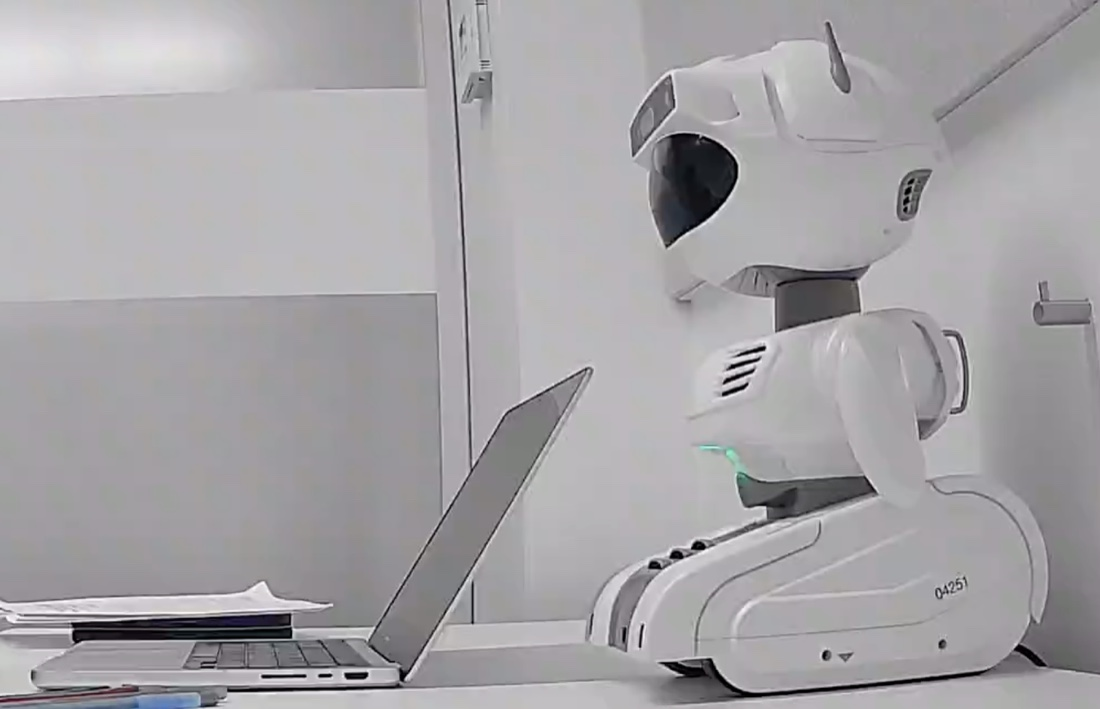
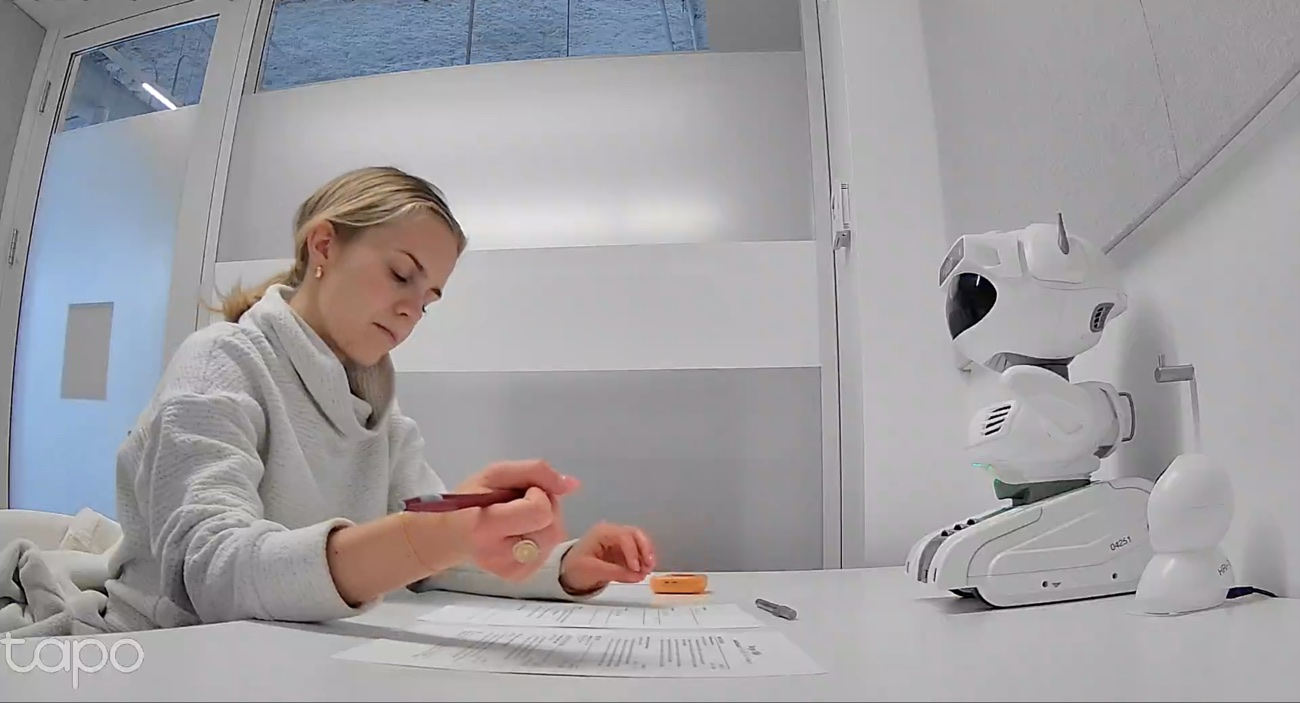
update on research section

diff --git a/index.html b/index.html
@@ -13,6 +13,8 @@
       --text: #202124;
       --muted: #5f6670;
       --line: #d9dde2;
+      --link: #245c8f;
+      --link-hover: #174866;
       --maroon: #7a1f36;
       --teal: #2d6f6d;
       --shadow: 0 16px 38px rgba(28, 32, 36, 0.08);
@@ -38,13 +40,13 @@
     }
 
     a {
-      color: var(--maroon);
+      color: var(--link);
       text-decoration-thickness: 1px;
       text-underline-offset: 3px;
     }
 
     a:hover {
-      color: var(--teal);
+      color: var(--link-hover);
     }
 
     .site-header {
@@ -224,6 +226,15 @@
     .lab-header h3 {
       margin: 0;
       font-size: 1.25rem;
+    }
+
+    .lab-header h3 a {
+      color: var(--link);
+      text-decoration: none;
+    }
+
+    .lab-header h3 a:hover {
+      color: var(--link-hover);
     }
 
     .dates {
@@ -509,14 +520,14 @@
 
         <div class="lab">
           <div class="lab-header">
-            <h3>Human-Robot Interaction (HRI) Lab</h3>
+            <h3><a href="https://hri.cs.uchicago.edu/">Human-Robot Interaction (HRI) Lab</a></h3>
             <span class="dates">Jun. 2024 &ndash; Present</span>
           </div>
 
           <div class="project-list">
             <article class="project-card has-project-image">
               <div class="project-media has-image is-wide">
-                <img src="assets/honors-thesis-robot.jpg" alt="Social robot facing a laptop during the honors thesis study">
+                <img src="assets/honors-thesis-robot.jpg" alt="Participant writing while a social robot sits across the table">
               </div>
               <div class="project-body">
                 <h4>[Honors Thesis] User Perceptions of Agency in LLM-Controlled Social Robots</h4>
@@ -548,7 +559,7 @@
 
             <article class="project-card has-project-image">
               <div class="project-media has-image is-wide is-personality">
-                <img src="assets/robot-personality-nao.jpg" alt="NAO robot in front of a personality task display">
+                <img src="assets/robot-personality-nao.jpg" alt="Participant interacting with a NAO robot during a personality study">
               </div>
               <div class="project-body">
                 <h4>[HRI 2025] Exploring Robot Personality Traits and Their Influence on User Affect and Experience</h4>
@@ -570,7 +581,7 @@
 
         <div class="lab">
           <div class="lab-header">
-            <h3>Scientists, Technologists, and Artists Generating Exploration (STAGE) Center</h3>
+            <h3><a href="https://stagecenter.uchicago.edu/">Scientists, Technologists, and Artists Generating Exploration (STAGE) Center</a></h3>
             <span class="dates">Nov. 2023 &ndash; Jun. 2025</span>
           </div>
 
@@ -583,8 +594,7 @@
                 <h4>Exploring the Quantum Labyrinth: Teaching Physics Through Games</h4>
                 <ul>
                   <li>Led an interdisciplinary student team developing and evaluating <em>Quantum Labyrinth</em>, a digital game designed to make quantum physics accessible to non-experts</li>
-                  <li>Designed and conducted two user evaluations with UChicago faculty, students, and children to collect feedback on concept clarity, engagement, and learning outcomes, integrating findings into iterative game improvements</li>
-                  <li>Led weekly two-hour sessions for five new team members on GameMaker Language and embodied physics concepts</li>
+                  <li>Conducted two user evaluations with UChicago faculty, students, and children to collect feedback on concept clarity, engagement, and learning outcomes, integrating findings into iterative game improvements</li>
                   <li><em>Quantum Labyrinth</em> was presented at the <em>2025 American Physical Society Joint March Meeting &amp; April Meeting</em>, and we shared our lessons learned at the <em>2025 UChicago Undergraduate Research Symposium</em>.</li>
                 </ul>
                 <div class="resource-links">